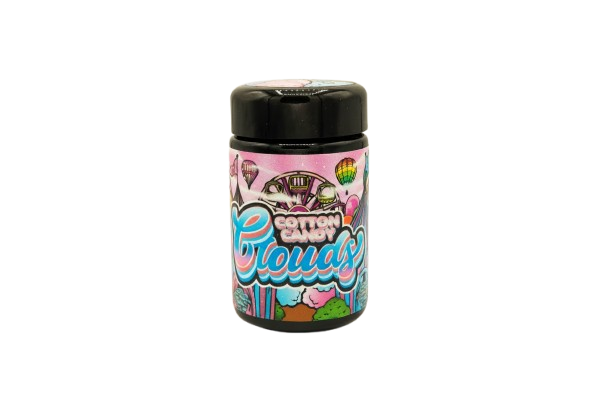
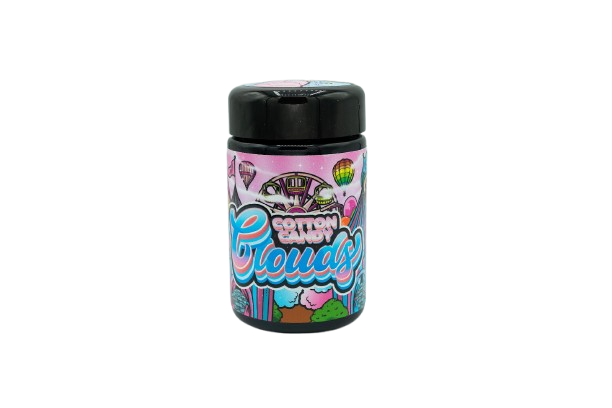
Changes

Changed region(s): [[0.3725, 0.1765, 0.6209, 0.8235]]

diff --git a/src/data/products.ts b/src/data/products.ts
@@ -1,13 +1,13 @@
-import dirtyFantaSlushie from "@/assets/products/dirty-fanta-slushie-new.jpg";
-import cottonCandyClouds from "@/assets/products/cotton-candy-clouds-new.jpg";
-import eliteFrutaz from "@/assets/products/verzaza.jpg";
+import dirtyFantaSlushie from "@/assets/products/dirty-fanta-slushie.png";
+import cottonCandyClouds from "@/assets/products/cotton-candy-clouds.png";
+import eliteFrutaz from "@/assets/products/verzaza.png";
 import privateReserveFrutaz from "@/assets/products/super-bubble-gum.jpg";
 import zopBoyZourzop from "@/assets/products/squrtlezop.jpg";
 import teaTime from "@/assets/products/tea-time-new.jpg";
 import dragonfruitCandy from "@/assets/products/dragonfruit-candy-new.jpg";
 import zopmander from "@/assets/products/zopmander.jpg";
 import magicDope from "@/assets/products/magic-dope.jpg";
-import empireState from "@/assets/products/empire-state.jpg";
+import empireState from "@/assets/products/empire-state.png";
 import screwston from "@/assets/products/screwston.jpg";
 import skyami from "@/assets/products/skyami.jpg";
 import lostAngels from "@/assets/products/lost-angels.jpg";
